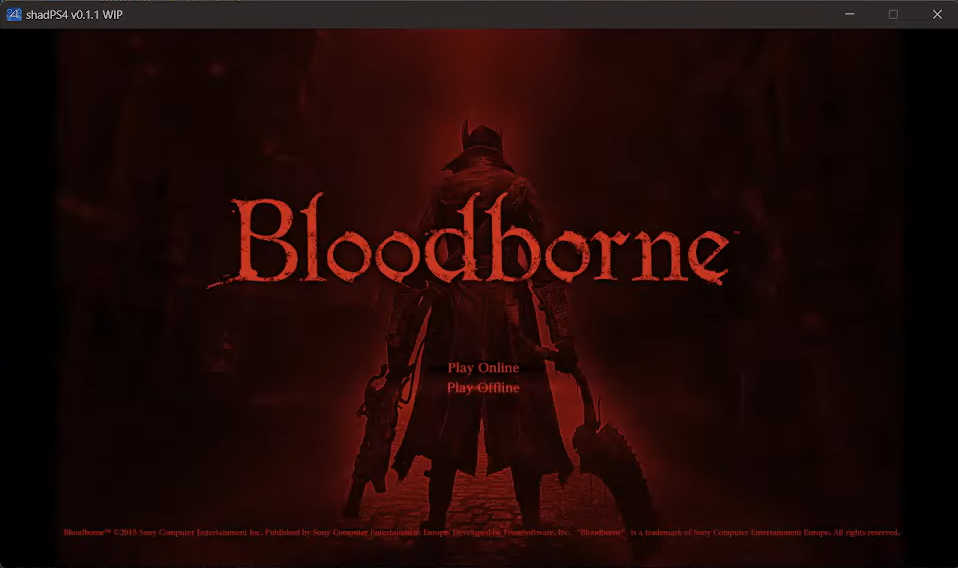
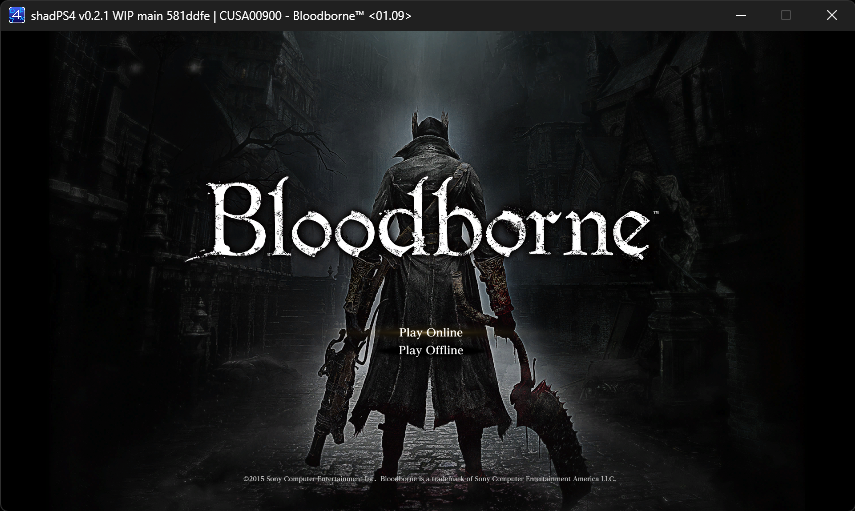
Better screenshots

diff --git a/README.md b/README.md
@@ -26,10 +26,10 @@ SPDX-License-Identifier: GPL-2.0-or-later
 
 <p align="center">
   <a href="https://shadps4.net/">
-  <img src="https://github.com/shadps4-emu/shadPS4/blob/main/documents/Screenshots/Sonic Mania.png" width="400">
   <img src="https://github.com/shadps4-emu/shadPS4/blob/main/documents/Screenshots/Bloodborne.png" width="400">
-  <img src="https://github.com/shadps4-emu/shadPS4/blob/main/documents/Screenshots/Undertale.png" width="400">
-  <img src="https://github.com/shadps4-emu/shadPS4/blob/main/documents/Screenshots/We are DOOMED.png" width="400">
+  <img src="https://github.com/shadps4-emu/shadPS4/blob/main/documents/Screenshots/Red Dead Redemption.png" width="400">
+  <img src="https://github.com/shadps4-emu/shadPS4/blob/main/documents/Screenshots/Dark Souls.png" width="400">
+  <img src="https://github.com/shadps4-emu/shadPS4/blob/main/documents/Screenshots/Resident Evil 4.png" width="400">
 </p>
 
 # General information
@@ -170,12 +170,6 @@ A few noteworthy teams/projects who've helped us along the way are:
 
 - **yuzu**: Our shader compiler has been designed with yuzu's Hades compiler as a blueprint. This allowed us to focus on the challenges of emulating a modern AMD GPU while having a high-quality optimizing shader compiler implementation as a base.
 
-- [**hydra**](https://github.com/hydra-emu/hydra): A multisystem, multiplatform emulator (chip-8, GB, NES, N64) from Paris.
-
-
-# Sister Projects
-
-- [**Panda3DS**](https://github.com/wheremyfoodat/Panda3DS): A multiplatform 3DS emulator from our co-author wheremyfoodat.
 - [**hydra**](https://github.com/hydra-emu/hydra): A multisystem, multiplatform emulator (chip-8, GB, NES, N64) from Paris.
 
 # License
